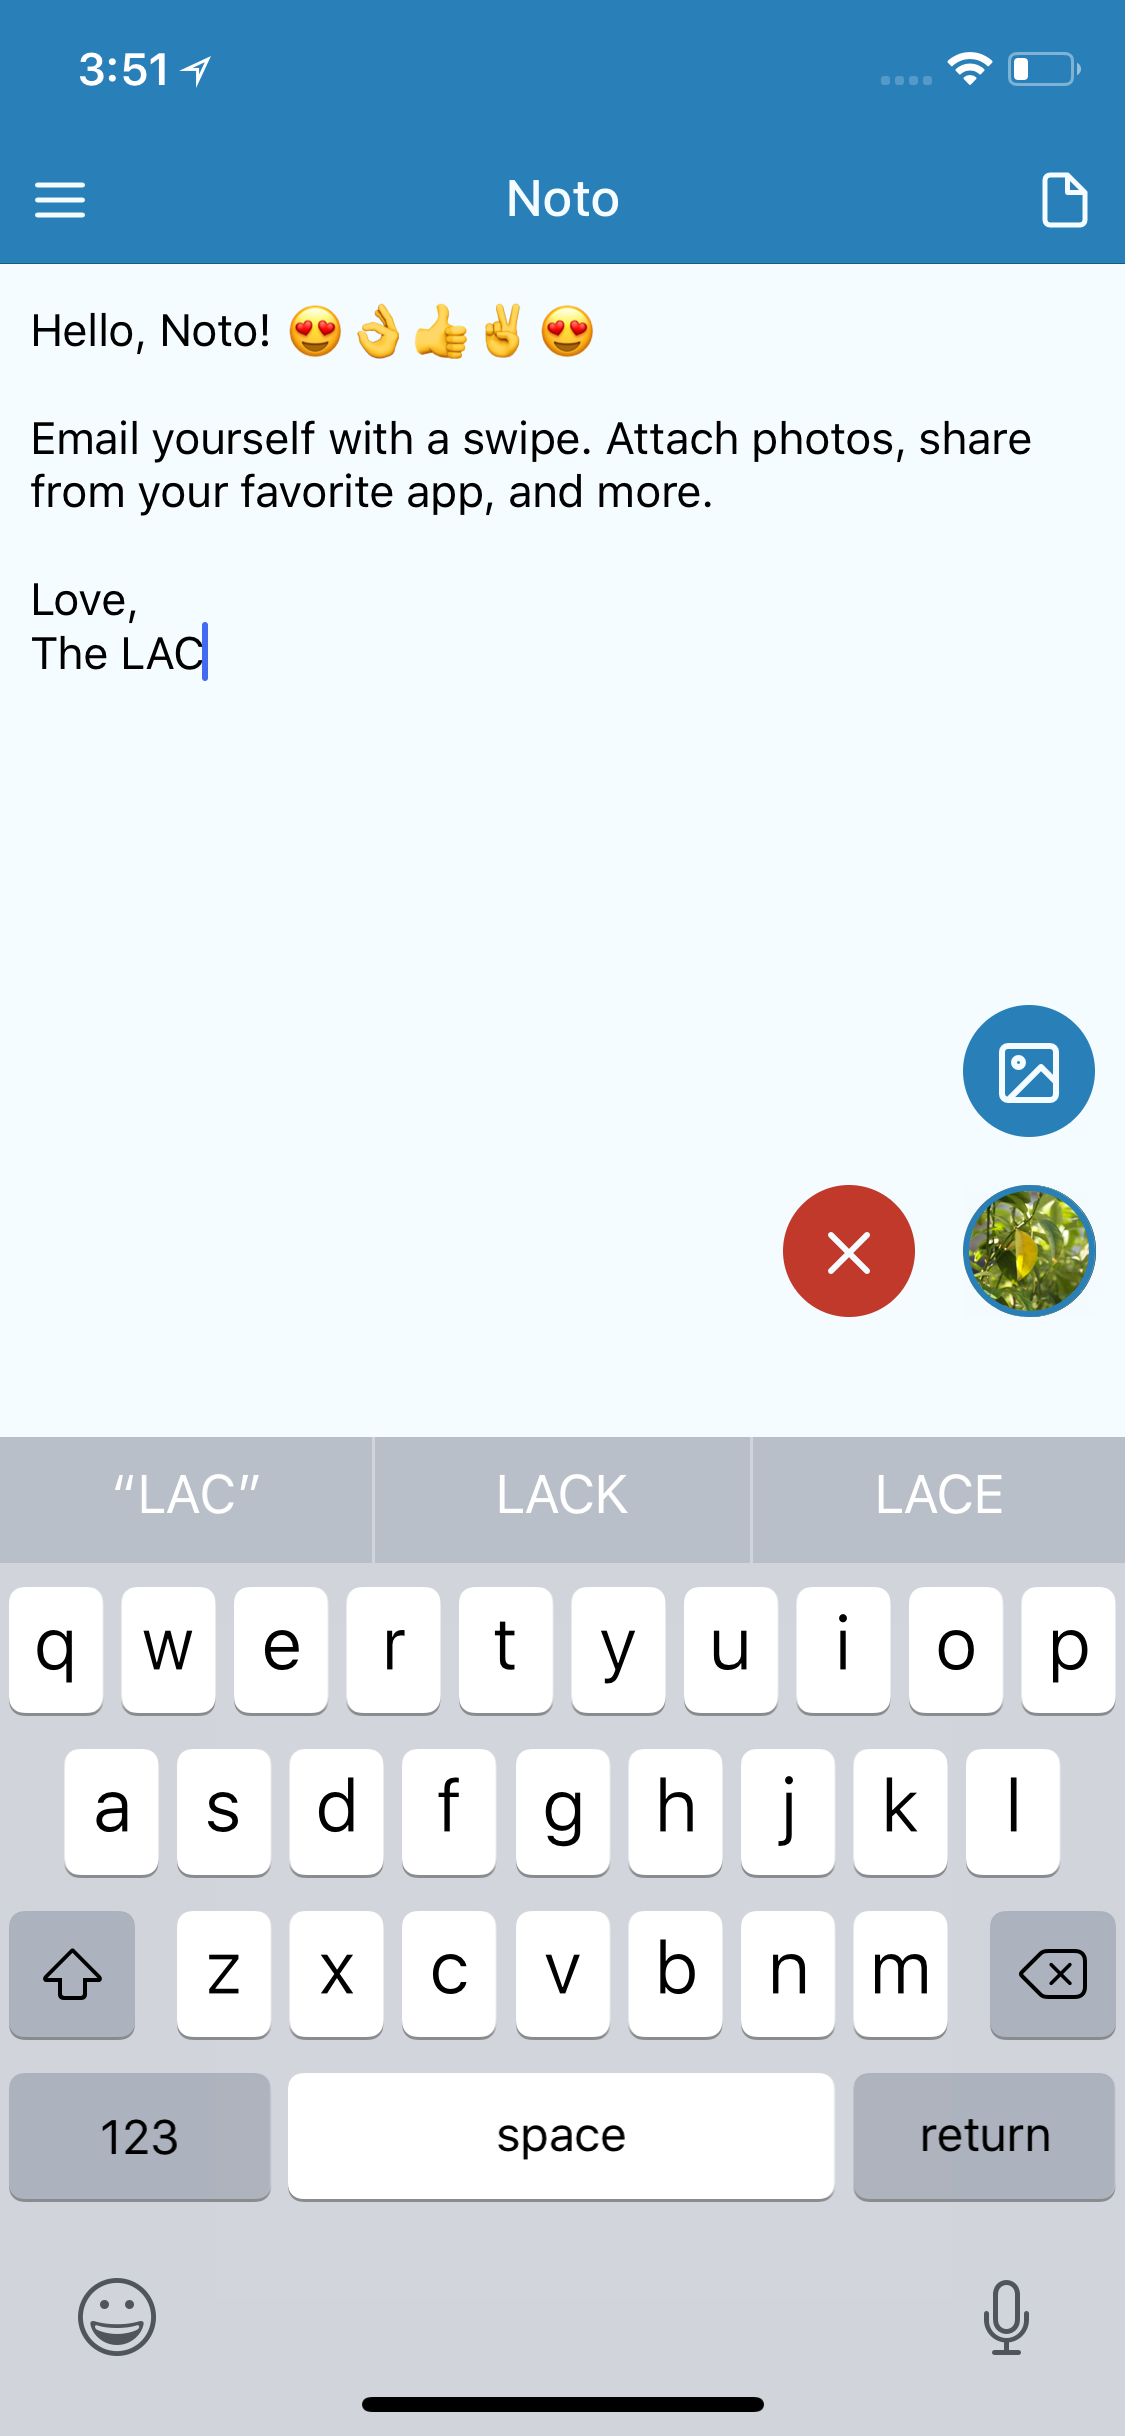
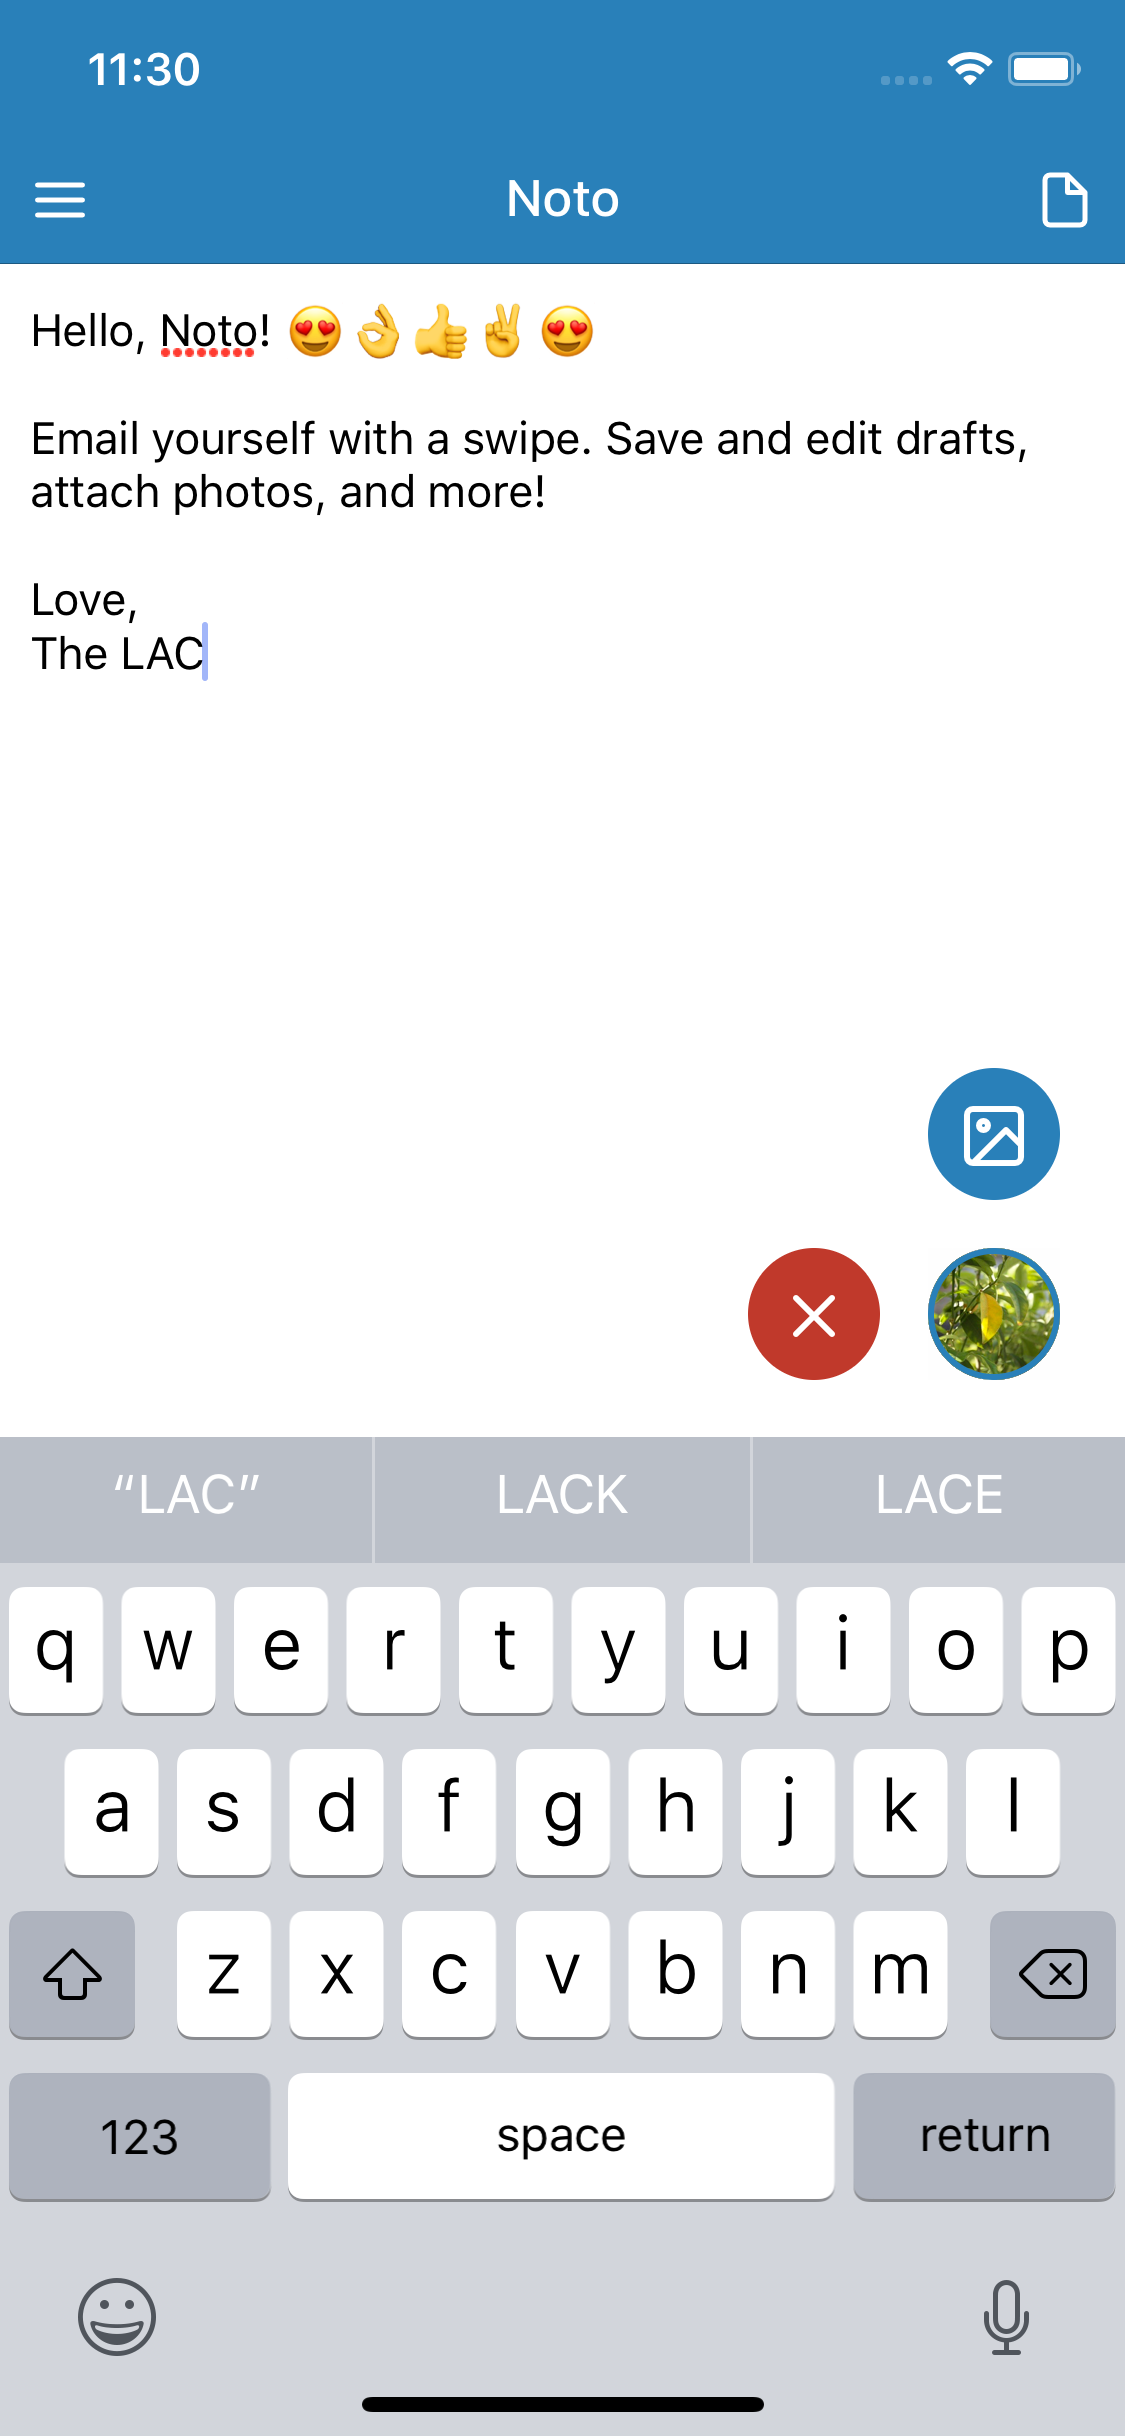
Update screenshot and copy

diff --git a/_includes/social.html b/_includes/social.html
@@ -1,5 +1,5 @@
 <ul class="social-links">
-  {% if site.social-links.github %}<li><a href="https://github.com/{{ site.social-links.github }}"><i class="fab fa-github fa-lg"></i></a></li>{% endif %}
+  {% if site.social-links.github %}<li><a href="https://github.com/{{ site.social-links.github }}/org/issues"><i class="fab fa-github fa-lg"></i></a></li>{% endif %}
   {% if site.social-links.twitter %}<li><a href="https://twitter.com/{{ site.social-links.twitter }}"><i class="fab fa-twitter fa-lg"></i></a></li>{% endif %}
   {% if site.social-links.facebook %}<li><a href="https://facebook.com/{{ site.social-links.facebook }}"><i class="fab fa-facebook-square fa-lg"></i></a></li>{% endif %}
   {% if site.social-links.instagram %}<li><a href="https://instagram.com/{{ site.social-links.instagram }}"><i class="fab fa-instagram fa-lg"></i></a></li>{% endif %}

diff --git a/themes/default/index.html b/themes/default/index.html
@@ -23,7 +23,7 @@
           {% endif %}
 
           <div class="marketing-desc">
-            <p>Email notes to yourself instantly. With Noto, type and swipe to email your personal or work address. Or tap the share button in your favorite app.</p>
+            <p>Email notes to yourself instantly. With Noto, type and swipe to email your work or personal address.</p>
             <p>Triage notes in <a href="https://support.google.com/mail/answer/6579?hl=en">inbox</a> or integrate with email-enabled services like <a href="http://evernote.com/contact/support/kb/#/article/23480523">Evernote</a> or via <a href="https://ifttt.com/discover">IFTTT</a>.</p>
             <p><b>Privacy policy</b>: we do not store or use any personal information except on user devices for sending user emails.</p>
           </div>
